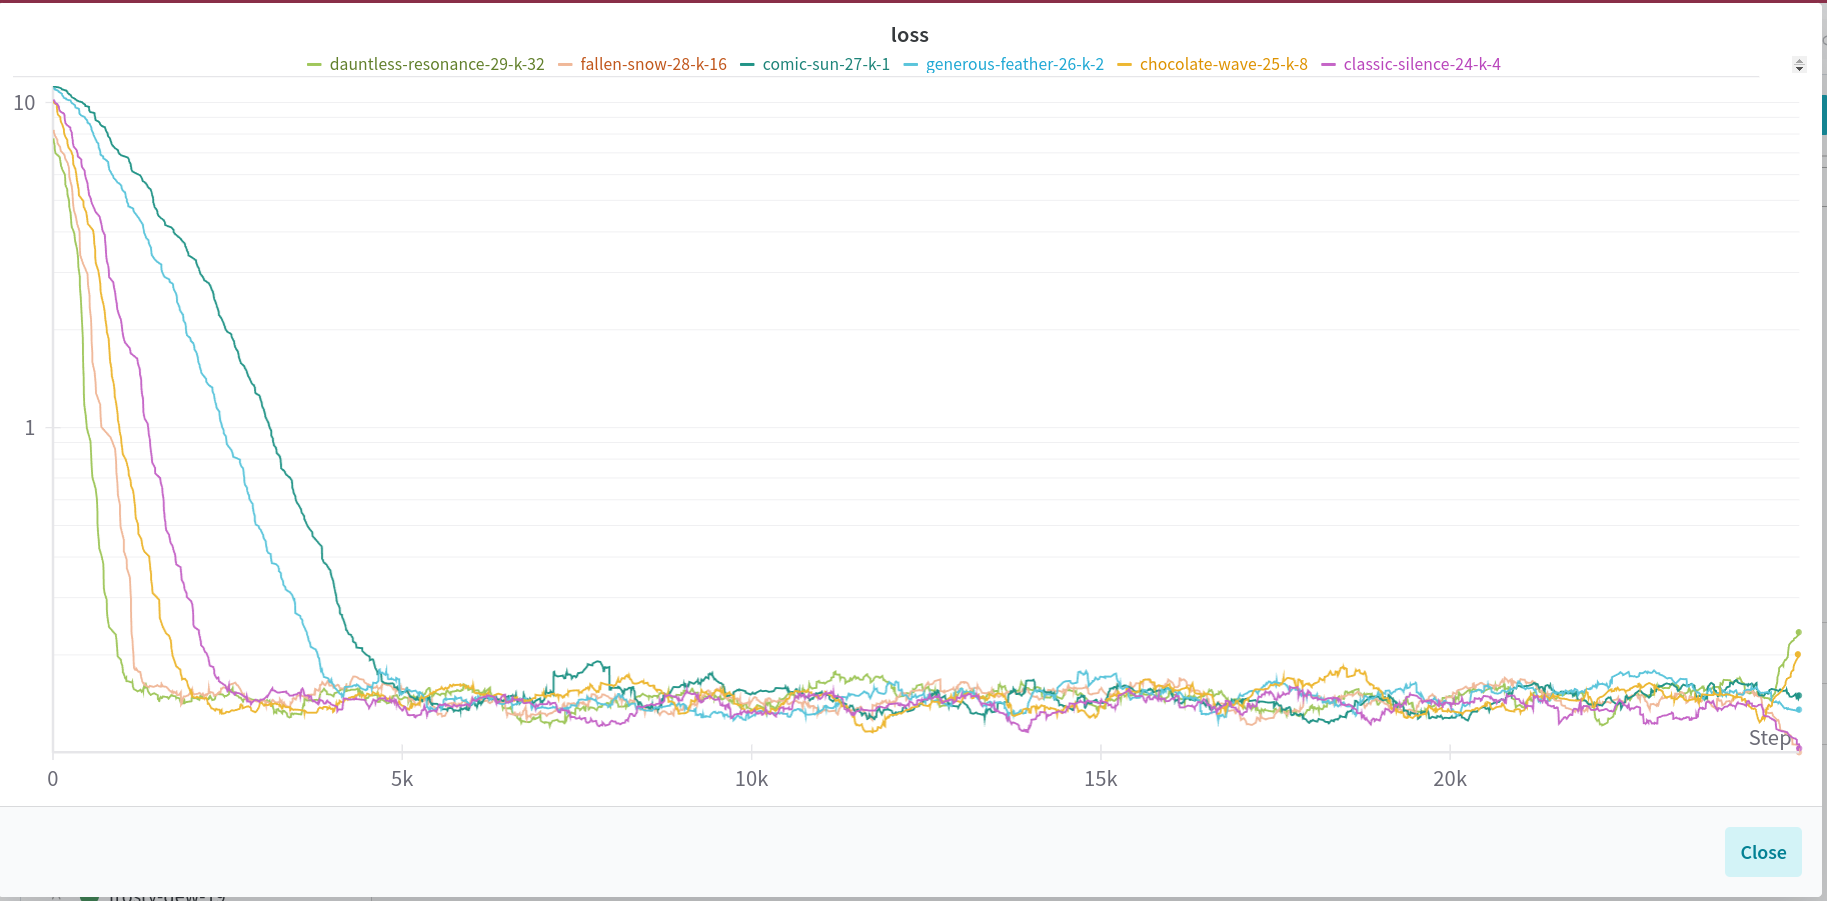
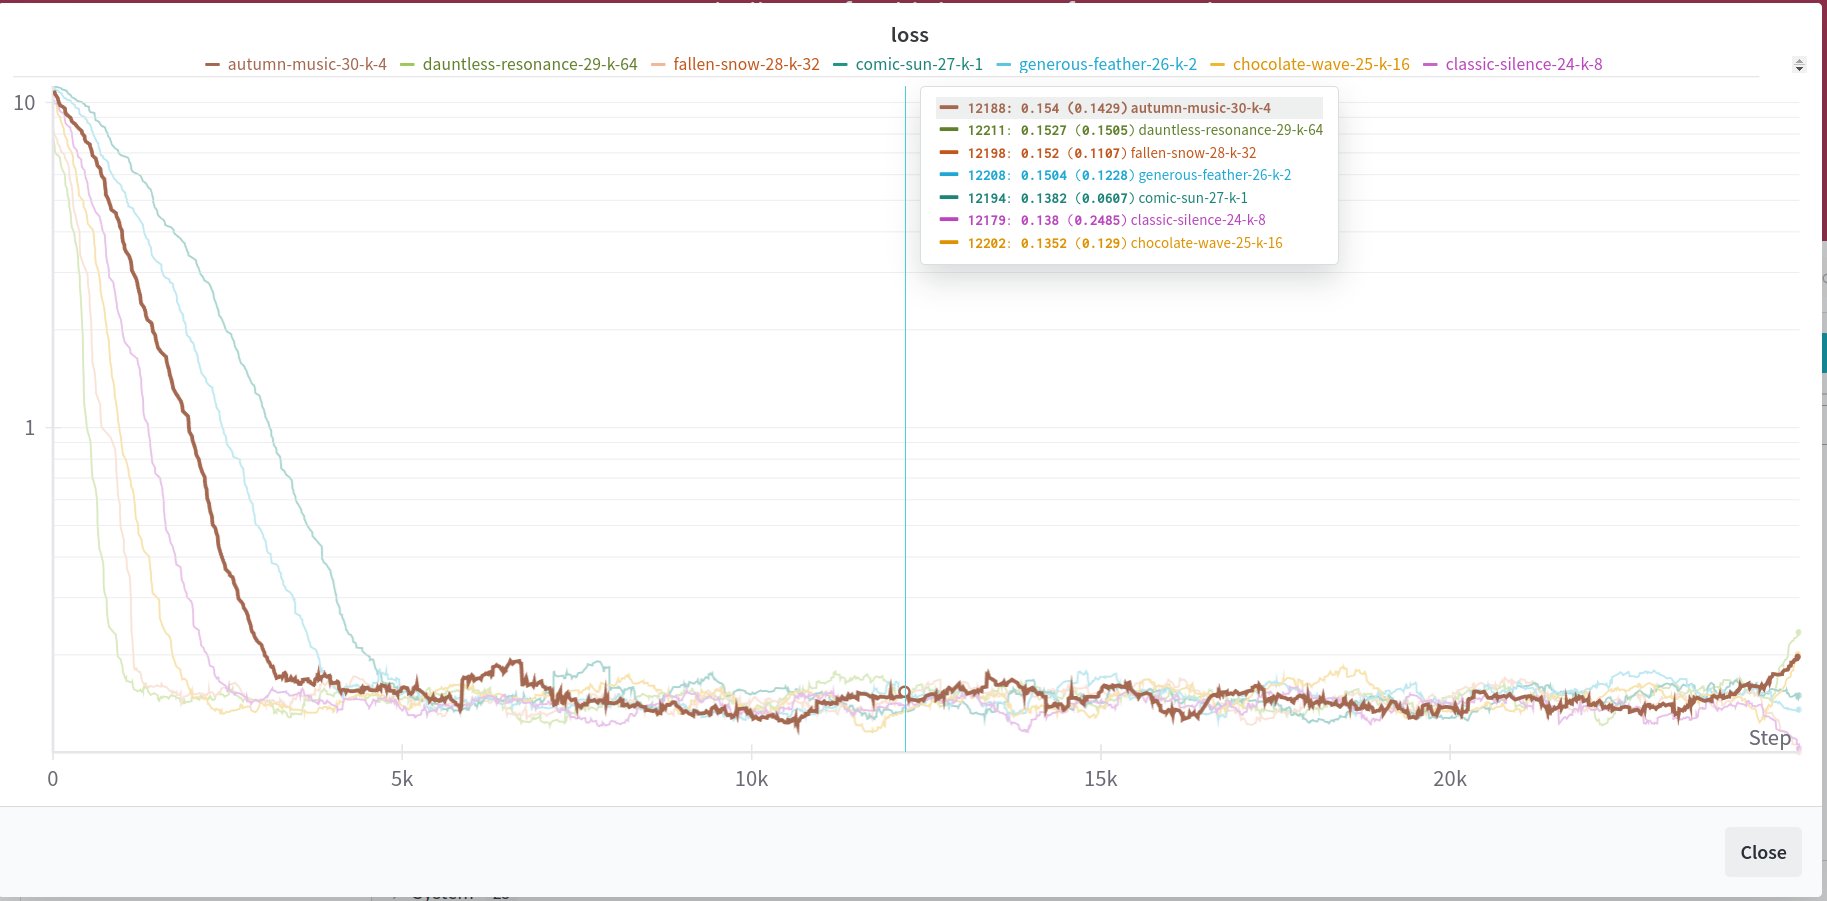
Modify figures to include k = 4

diff --git a/sae/config.py b/sae/config.py
@@ -14,7 +14,7 @@ class SaeConfig(Serializable):
     normalize_decoder: bool = True
     """Normalize the decoder weights to have unit norm."""
 
-    k: int = 64
+    k: int = 4
     """Number of nonzero features."""
 
     signed: bool = False
